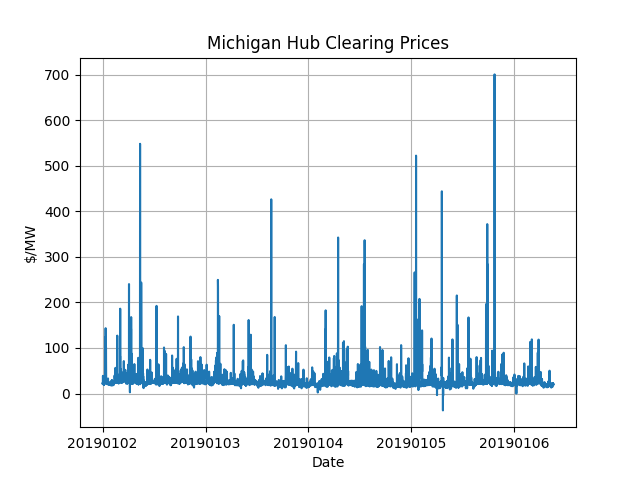
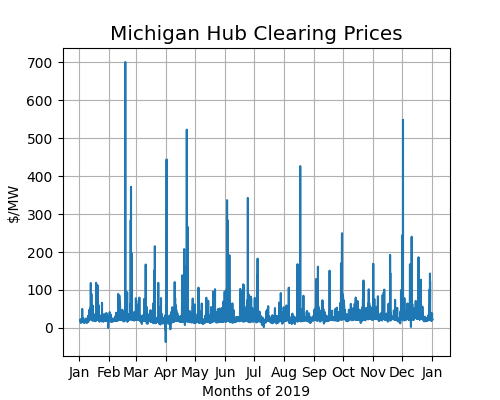
timeseries plot

diff --git a/analysis.py b/analysis.py
@@ -1,6 +1,6 @@
 import numpy as np
 import matplotlib.pyplot as plt
-fig, ax = plt.subplots(figsize=[5,4])
+fig,ax = plt.subplots(figsize=[5,4])
 '''
 plt.rcParams.update({
     "text.usetex": True,
@@ -11,18 +11,14 @@ plt.rcParams['font.size'] = 12
 data = np.genfromtxt('data/clearing-price/2019clearing.csv', delimiter=',')
 #print(data[0,1:].reshape((len(data[0,1:]),1)))
 #print(data.shape)
-fig, ax = plt.subplots()
 
 
 timeseries = np.array([])
 for row in data[:-1]:
-    print(row[0])
+    #print(row[0])
     timeseries = np.append(timeseries, row[1:])
 
 demand = np.genfromtxt('MIWI-demand-MWh.csv', delimiter=',')
-print(demand[:,-1])
-print(demand[:,-1].shape)
-print(timeseries.shape)
 
 #demand = demand[:,-1]
 ave_price = np.array([])
@@ -117,15 +113,25 @@ plt.ylabel('Clearing Price [$/MW]')
 plt.title('Pseudo-Michigan Hub Demand Curve')
 plt.savefig('demand-curve.png')
 '''
-'''
-print(timeseries)
-print(timeseries.shape)
-plt.plot(timeseries)
-ax.set_xticklabels(data[:,0].astype(int).astype(str))
+import matplotlib.dates as mdates
+import matplotlib.cbook as cbook
+import datetime
+numh = 8736
+base = datetime.datetime(2019,1,1)
+date_list = [base - datetime.timedelta(hours=x) for x in range(0, numh)]
+plt.plot(date_list,timeseries)
+# Set the locator
+locator = mdates.MonthLocator()  # every month
+# Specify the format - %b gives us Jan, Feb...
+fmt = mdates.DateFormatter('%b')
+X = plt.gca().xaxis
+X.set_major_locator(locator)
+# Specify formatter
+X.set_major_formatter(fmt)
 plt.grid()
-plt.xlabel('Date')
+plt.xlabel('Months of 2019')
 plt.ylabel('$/MW')
 plt.title('Michigan Hub Clearing Prices')
 
 plt.savefig('clearing-results.png')
-'''
+
